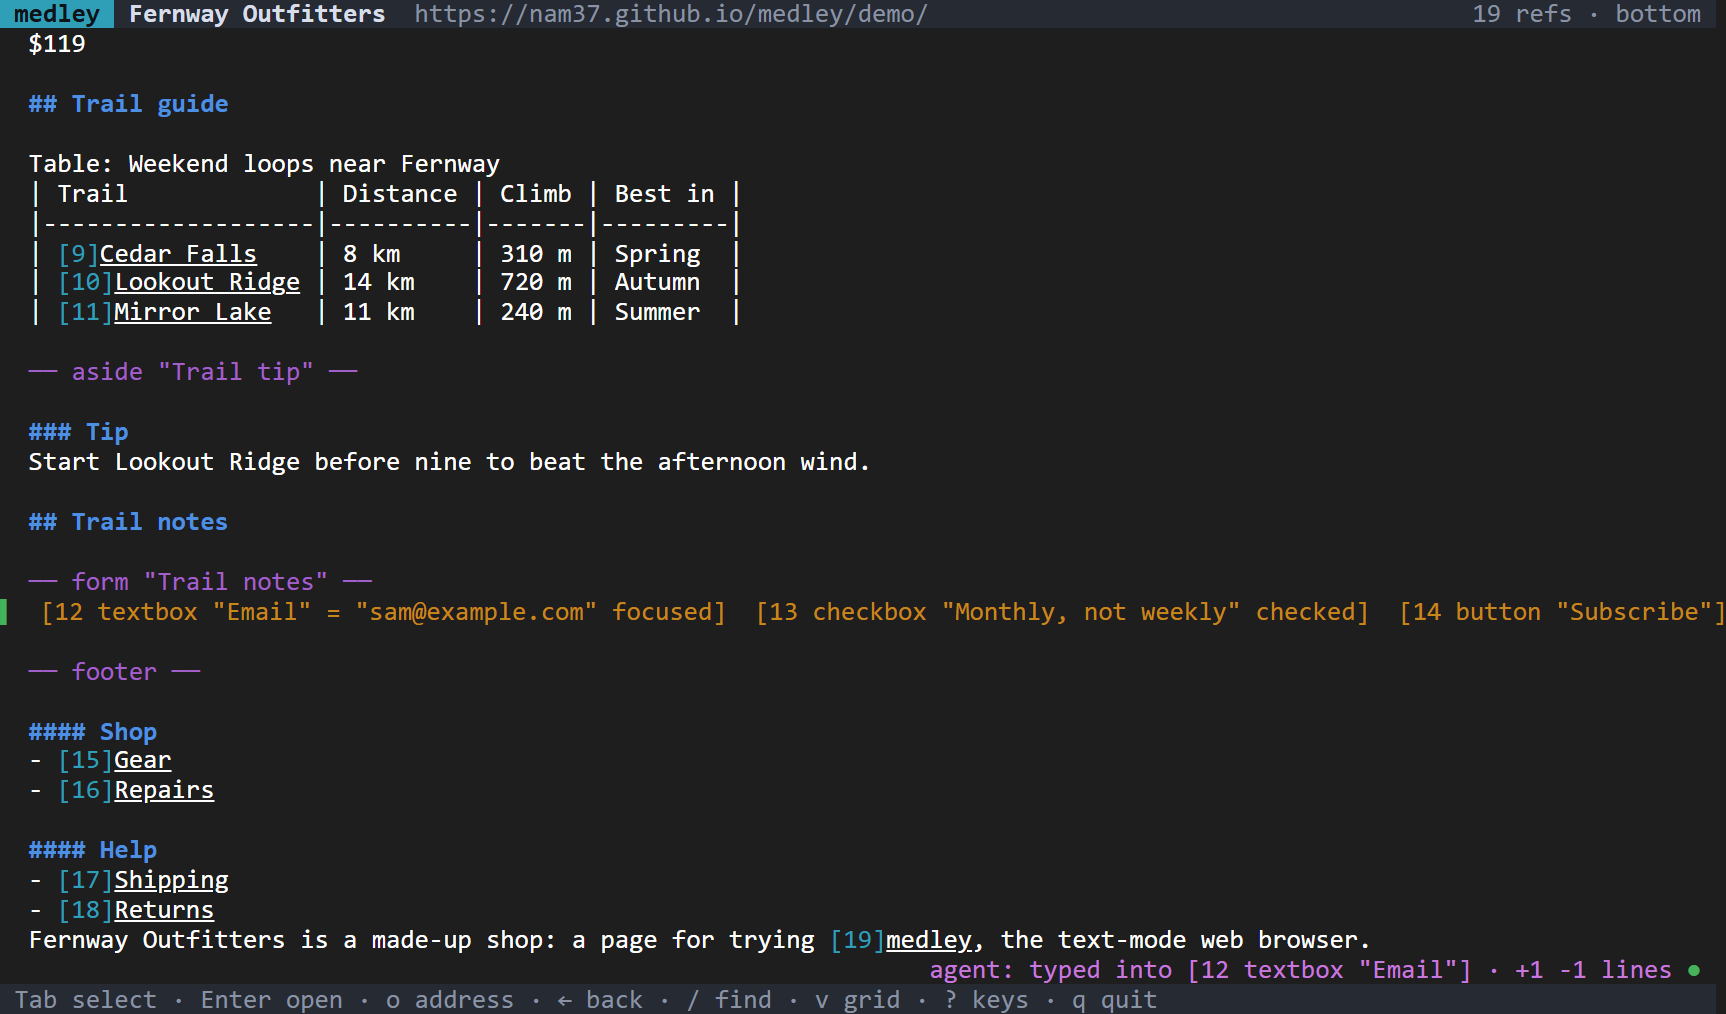
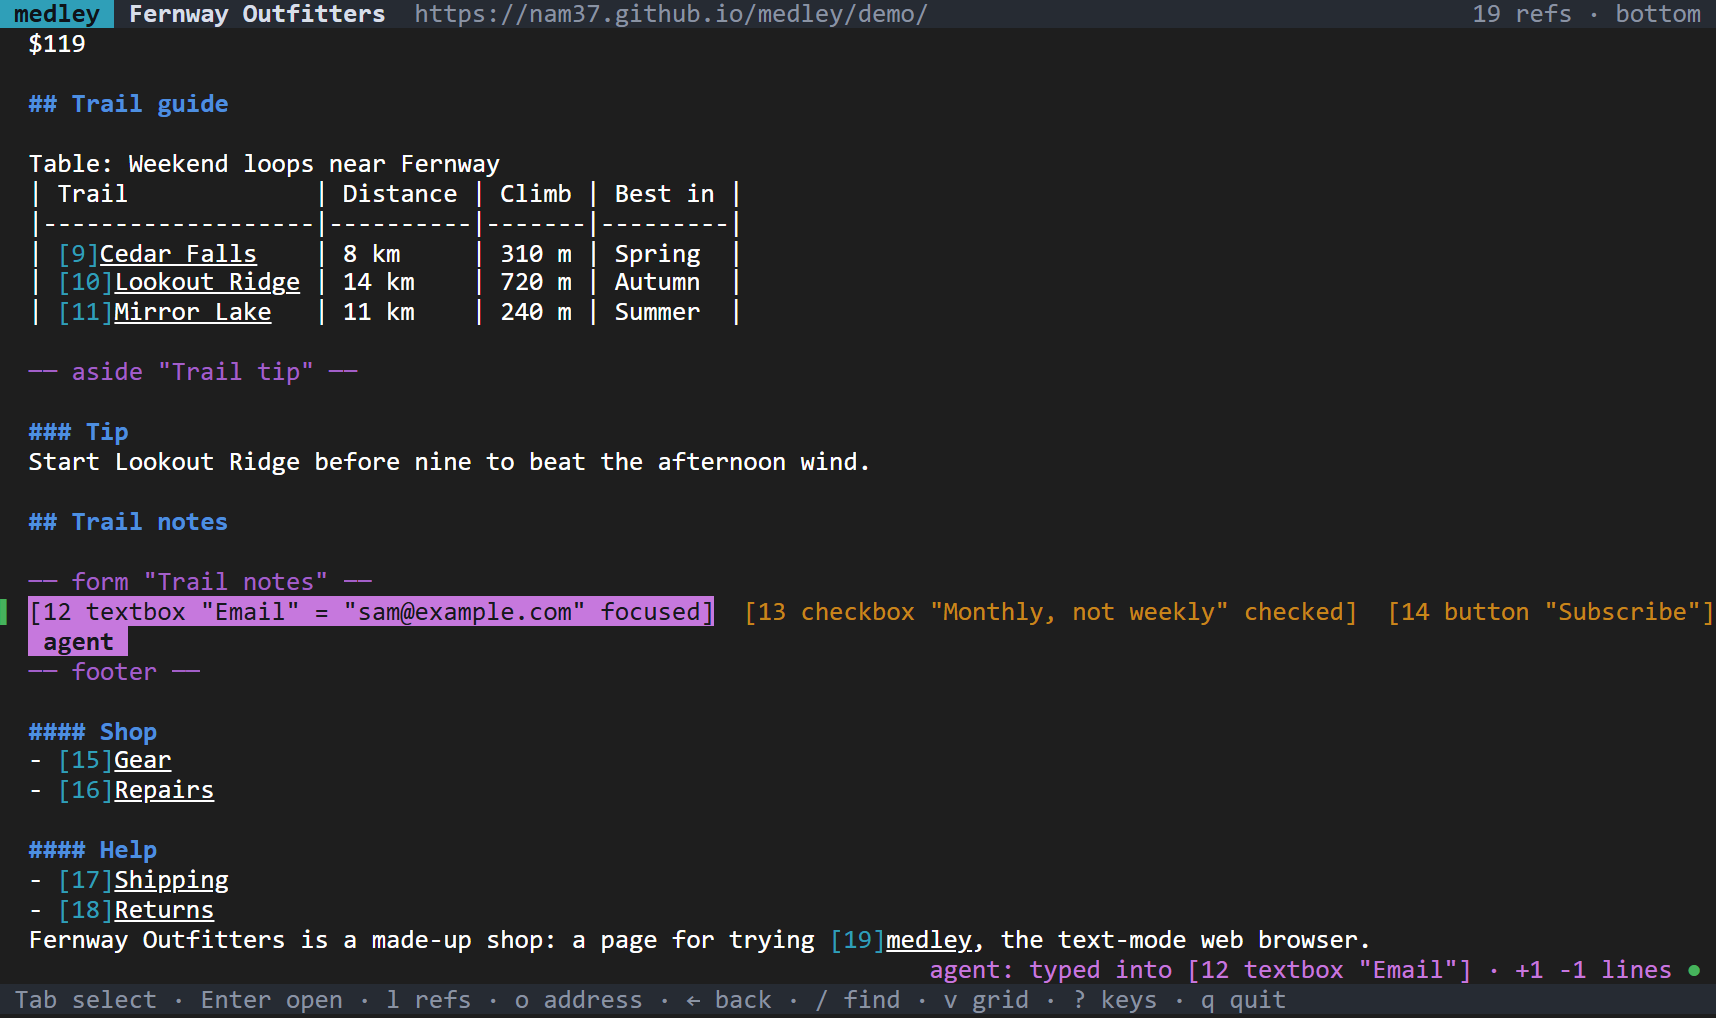
Run medley as bun src/medley.ts; the site's pictures made again
- src/cli.ts is now src/medley.ts, so the command reads as what it runs:
  bun src/medley.ts tui theverge.com. The README, the website, package.json
  and the tests say so.
- The website's terminal pictures are made again from today's terminal UI:
  the agent's cursor and its tag on what it types into and clicks, and the
  refs list in the key hints. scripts/site-shots.ts draws them itself now
  (--png <dir>), one cell per character in any font, so every picture is
  the same size.

diff --git a/docs/index.html b/docs/index.html
@@ -210,24 +210,24 @@
         <p class="prose">A background session owns the browser. The terminal UI, the command line and every MCP connection are clients of that one session, so you see what the agent does as it happens, with its cursor on what it's working on. Press <kbd>&gt;</kbd> to tell it something. When it needs you, for a sign-in, a choice, or a yes before it buys anything, it asks and waits for your answer, and a <code>confirm()</code> on the page waits for you too.</p>
         <div class="steps">
           <div class="step">
-            <div class="shot"><img src="assets/tui-agent-typed.png" alt="medley's terminal UI on the demo page's form; the status line says, in purple, agent: typed into [12 textbox Email]." width="1726" height="1014" loading="lazy"></div>
+            <div class="shot"><img src="assets/tui-agent-typed.png" alt="medley's terminal UI on the demo page's form; the status line says, in purple, agent: typed into [12 textbox Email]." width="1716" height="1018" loading="lazy"></div>
             <h3>The agent fills the form</h3>
             <p><span class="who agent">agent</span> <code>type 12 sam@example.com</code>. Your terminal UI follows along and marks the line that changed.</p>
           </div>
           <div class="step">
-            <div class="shot"><img src="assets/tui-confirm.png" alt="The status line reads: the page asks (confirm): Send trail notes to sam@example.com? with the hint y accept, n dismiss." width="1726" height="1014" loading="lazy"></div>
+            <div class="shot"><img src="assets/tui-confirm.png" alt="The status line reads: the page asks (confirm): Send trail notes to sam@example.com? with the hint y accept, n dismiss." width="1716" height="1018" loading="lazy"></div>
             <h3>The page asks to confirm</h3>
             <p><span class="who agent">agent</span> <code>click 14</code> opens a <code>confirm()</code>. The page is blocked until someone answers it.</p>
           </div>
           <div class="step">
-            <div class="shot"><img src="assets/tui-accepted.png" alt="After pressing y: accepted the confirm, and the page now shows Thanks! Notes will go to sam@example.com." width="1726" height="1014" loading="lazy"></div>
+            <div class="shot"><img src="assets/tui-accepted.png" alt="After pressing y: accepted the confirm, and the page now shows Thanks! Notes will go to sam@example.com." width="1716" height="1018" loading="lazy"></div>
             <h3>You answer it</h3>
             <p><span class="who you">you</span> press <kbd>y</kbd> in the terminal UI (or run <code>dialog accept</code>), and the page carries on.</p>
           </div>
         </div>
         <div class="code" style="margin-top: 28px">
-<pre class="medley" aria-label="Add medley to Claude Code as an MCP server"><span class="prompt">$ </span>claude mcp add medley -- bun /path/to/medley/src/cli.ts mcp</pre>
-          <button class="copy" type="button" data-copy="claude mcp add medley -- bun /path/to/medley/src/cli.ts mcp">copy</button>
+<pre class="medley" aria-label="Add medley to Claude Code as an MCP server"><span class="prompt">$ </span>claude mcp add medley -- bun /path/to/medley/src/medley.ts mcp</pre>
+          <button class="copy" type="button" data-copy="claude mcp add medley -- bun /path/to/medley/src/medley.ts mcp">copy</button>
         </div>
         <p class="note">The MCP tools (browser_goto, browser_click, browser_type, …) talk to the same session as the command line and the terminal UI.</p>
       </div>
@@ -337,9 +337,9 @@ Fernway Outfitters is a made-up shop: a page for trying <span class="ref">[19]</
         <p class="prose">A full-screen terminal UI for people: Tab through refs, Enter to open, <kbd>/</kbd> to find, <kbd>[</kbd> <kbd>]</kbd> for tabs. Press <kbd>v</kbd> to cycle how the page is drawn. The text, the refs and the keys stay the same in every mode.</p>
         <div class="term">
           <div class="screen" id="screen">
-            <img class="on" data-mode="none" src="assets/tui-none.png" alt="No grid: the page as medley's plain text, with colored refs." width="1726" height="1014">
-            <img data-mode="partial" src="assets/tui-partial.png" alt="Partial grid: the three product cards side by side in columns, and the trail table beside its tip." width="1726" height="1014" loading="lazy">
-            <img data-mode="advanced" src="assets/tui-advanced.png" alt="Advanced grid: the page as laid out, with its green top bar and the mountain picture drawn in half-block characters." width="1726" height="1014" loading="lazy">
+            <img class="on" data-mode="none" src="assets/tui-none.png" alt="No grid: the page as medley's plain text, with colored refs." width="1716" height="1018">
+            <img data-mode="partial" src="assets/tui-partial.png" alt="Partial grid: the three product cards side by side in columns, and the trail table beside its tip." width="1716" height="1018" loading="lazy">
+            <img data-mode="advanced" src="assets/tui-advanced.png" alt="Advanced grid: the page as laid out, with its green top bar and the mountain picture drawn in half-block characters." width="1716" height="1018" loading="lazy">
           </div>
         </div>
         <div class="modes" role="group" aria-label="Grid mode">
@@ -380,10 +380,10 @@ Fernway Outfitters is a made-up shop: a page for trying <span class="ref">[19]</
 <pre class="medley" aria-label="Install commands"><span class="prompt">$ </span>git clone https://github.com/nam37/medley.git
 <span class="prompt">$ </span>cd medley
 <span class="prompt">$ </span>bun install
-<span class="prompt">$ </span>bun src/cli.ts tui nam37.github.io/medley/demo/</pre>
-          <button class="copy" type="button" data-copy="git clone https://github.com/nam37/medley.git&#10;cd medley&#10;bun install&#10;bun src/cli.ts tui nam37.github.io/medley/demo/">copy</button>
+<span class="prompt">$ </span>bun src/medley.ts tui nam37.github.io/medley/demo/</pre>
+          <button class="copy" type="button" data-copy="git clone https://github.com/nam37/medley.git&#10;cd medley&#10;bun install&#10;bun src/medley.ts tui nam37.github.io/medley/demo/">copy</button>
         </div>
-        <p class="prose" style="margin-top: 22px">Then <code>bun src/cli.ts goto &lt;url&gt;</code>, <code>snapshot</code>, <code>click &lt;ref&gt;</code> and friends from any shell, or <code>bun src/cli.ts mcp</code> for agents. The <a href="https://github.com/nam37/medley#readme">README</a> lists every command, key and option, and what doesn't work yet.</p>
+        <p class="prose" style="margin-top: 22px">Then <code>bun src/medley.ts goto &lt;url&gt;</code>, <code>snapshot</code>, <code>click &lt;ref&gt;</code> and friends from any shell, or <code>bun src/medley.ts mcp</code> for agents. The <a href="https://github.com/nam37/medley#readme">README</a> lists every command, key and option, and what doesn't work yet.</p>
       </div>
     </section>
   </main>

diff --git a/scripts/site-shots.ts b/scripts/site-shots.ts
@@ -2,16 +2,21 @@
 // saves frames along the way as HTML fragments (colored terminal cells), for
 // the website and its video.
 //
-//   bun scripts/site-shots.ts <out-dir> [--width 120] [--rows 34] [--as <url>]
+//   bun scripts/site-shots.ts <out-dir> [--width 120] [--rows 34] [--as <url>] [--png <dir>]
 //
 // Writes <name>.html for each frame (the inside of a <pre>) and all.html,
 // which shows them all. --as shows the page's address as <url> in the top
 // bar, such as where the demo is published, instead of its local file.
+// --png also draws each frame as tui-<name>.png in <dir>, at twice its size
+// in Consolas: the website's pictures, with
+//
+//   bun scripts/site-shots.ts <out-dir> --as https://nam37.github.io/medley/demo/ --png docs/assets
 
 import { createTestRenderer } from '@opentui/core/testing';
-import { mkdirSync, readFileSync, writeFileSync } from 'node:fs';
-import { join } from 'node:path';
+import { mkdirSync, readFileSync, rmSync, writeFileSync } from 'node:fs';
+import { join, resolve } from 'node:path';
 import { pathToFileURL } from 'node:url';
+import { Browser } from '../src/browser.ts';
 import { send } from '../src/client.ts';
 import { App } from '../src/tui/app.ts';
 import { sessionBackend } from '../src/tui/main.ts';
@@ -25,9 +30,10 @@ const option = (name: string, fallback: string) => {
 const width = Number(option('--width', '120'));
 const rows = Number(option('--rows', '34'));
 const shownUrl = option('--as', '');
+const pngDir = option('--png', '');
 const [out] = args;
 if (!out) {
-  console.error('usage: bun scripts/site-shots.ts <out-dir> [--width 120] [--rows 34] [--as <url>]');
+  console.error('usage: bun scripts/site-shots.ts <out-dir> [--width 120] [--rows 34] [--as <url>] [--png <dir>]');
   process.exit(2);
 }
 mkdirSync(out, { recursive: true });
@@ -114,4 +120,32 @@ writeFileSync(
 <style>body{margin:24px;background:#111;color:#ddd;font:14px system-ui}pre{margin:6px 0 28px;background:#1e1e1e;color:#ddd;font:13px/1.15 Consolas,Menlo,monospace;display:inline-block}${FRAME_CSS}</style>
 ${saved.map((name) => `<div>${name}</div><pre>${readFileSync(join(out, `${name}.html`), 'utf8')}</pre>`).join('\n')}`,
 );
+
+// Each frame as a PNG at twice its size, cropped to the terminal.
+if (pngDir) {
+  mkdirSync(pngDir, { recursive: true });
+  const browser = await Browser.launch({ width: 1200, height: 800 });
+  try {
+    const page = await browser.newPage();
+    for (const name of saved) {
+      const file = resolve(out, `_${name}.png.html`);
+      const size = `width:${width}ch;height:${(rows * 1.15).toFixed(2)}em;overflow:hidden`; // the terminal's columns and rows
+      const css = `html,body{margin:0;background:#1e1e1e}pre{margin:0;display:inline-block;${size};background:#1e1e1e;color:#ddd;font:13px/1.15 Consolas,monospace}${FRAME_CSS}`;
+      // Every character one cell wide, as in a terminal, whichever font draws it (Consolas has no ●),
+      // so every picture comes out the same size.
+      const cells = readFileSync(join(out, `${name}.html`), 'utf8').replace(/(?:<i>)?([^\x00-\x7f])(?:<\/i>)?/g, '<i>$1</i>');
+      writeFileSync(file, `<!doctype html><meta charset="utf-8"><style>${css}</style><pre>${cells}</pre>`);
+      await page.goto(pathToFileURL(file).href);
+      const box = await page.evaluate<{ w: number; h: number }>(`(() => { const r = document.querySelector('pre').getBoundingClientRect(); return { w: r.width, h: r.height }; })()`);
+      box.w = Math.ceil(box.w);
+      box.h = Math.ceil(box.h);
+      const shot = await page.send('Page.captureScreenshot', { format: 'png', captureBeyondViewport: true, clip: { x: 0, y: 0, width: box.w, height: box.h, scale: 2 } });
+      writeFileSync(join(pngDir, `tui-${name}.png`), Buffer.from(shot.data, 'base64'));
+      rmSync(file);
+      console.log(`tui-${name}.png ${Math.round(box.w * 2)}×${Math.round(box.h * 2)}`);
+    }
+  } finally {
+    await browser.close();
+  }
+}
 process.exit(0);

diff --git a/test/idle.ts b/test/idle.ts
@@ -12,7 +12,7 @@ import { pathToFileURL } from 'node:url';
 import { logFile, readSessionInfo } from '../src/client.ts';
 
 const SESSION = 'idle-test';
-const cli = join(import.meta.dir, '..', 'src', 'cli.ts');
+const cli = join(import.meta.dir, '..', 'src', 'medley.ts');
 const page = pathToFileURL(join(import.meta.dir, 'app.html')).href;
 const env = { ...process.env, MEDLEY_IDLE_MINUTES: '0.05' }; // 3 s
 const medley = (...args: string[]) => spawnSync(process.execPath, [cli, '--session', SESSION, '--no-color', ...args], { env, encoding: 'utf8' });

diff --git a/test/agent.ts b/test/agent.ts
@@ -10,7 +10,7 @@ import { join } from 'node:path';
 import { pathToFileURL } from 'node:url';
 
 const SESSION = 'agent-test';
-const cli = join(import.meta.dir, '..', 'src', 'cli.ts');
+const cli = join(import.meta.dir, '..', 'src', 'medley.ts');
 const page = (name: string) => pathToFileURL(join(import.meta.dir, name)).href;
 const medley = (...args: string[]) => {
   const r = spawnSync(process.execPath, [cli, '--session', SESSION, '--no-color', ...args], { encoding: 'utf8' });

diff --git a/test/dev.ts b/test/dev.ts
@@ -13,7 +13,7 @@ import { pathToFileURL } from 'node:url';
 
 const SESSION = 'dev-test';
 const OTHER = 'dev-test-replay';
-const cli = join(import.meta.dir, '..', 'src', 'cli.ts');
+const cli = join(import.meta.dir, '..', 'src', 'medley.ts');
 const page = (path: string) => pathToFileURL(path).href;
 // Without a PASSWORD of its own, so a script that reads one gets only the test's.
 const { PASSWORD: _, ...ENV } = process.env;

diff --git a/README.md b/README.md
@@ -43,13 +43,13 @@ over the DevTools protocol; the only package it depends on is
 git clone https://github.com/nam37/medley.git
 cd medley
 bun install
-bun src/cli.ts tui en.wikipedia.org
+bun src/medley.ts tui en.wikipedia.org
 ```
 
-The examples below write `medley` for `bun src/cli.ts`. To type it that way,
-add an alias, such as `alias medley="bun /path/to/medley/src/cli.ts"` in bash
-or zsh, or `function medley { bun C:\path\to\medley\src\cli.ts @args }` in
-PowerShell.
+The examples below write `medley` for `bun src/medley.ts`. To type it that way,
+add an alias, such as `alias medley="bun /path/to/medley/src/medley.ts"` in bash
+or zsh, or `function medley { bun C:\path\to\medley\src\medley.ts @args }` in
+PowerShell (in the file `$PROFILE` names, so every new window has it).
 
 A command takes as long as the page does to load and settle, plus Bun's own
 start (a few hundred milliseconds). The first command also starts the browser,
@@ -244,7 +244,7 @@ when it attaches.
 ### Use it from an agent
 
 ```
-claude mcp add medley -- bun /path/to/medley/src/cli.ts mcp
+claude mcp add medley -- bun /path/to/medley/src/medley.ts mcp
 ```
 
 The MCP tools (`browser_goto`, `browser_click`, `browser_type`, …) talk to the
@@ -548,9 +548,10 @@ looked, when the old number means something else), that a notice over the
 page stops clicks into frames under it (from another site and from this one),
 that a frame from this site is read in like one from another, and that a
 table's hidden rows and cells don't show.
-`bun scripts/site-shots.ts <dir> [--as <url>]` drives the terminal UI through
-the demo shop in `docs/demo/` and saves its frames as HTML; the website's
-terminal pictures come from it.
+`bun scripts/site-shots.ts <dir> [--as <url>] [--png <dir>]` drives the
+terminal UI through the demo shop in `docs/demo/` and saves its frames as
+HTML, and with `--png` as pictures too. The website's are made with
+`bun scripts/site-shots.ts <dir> --as https://nam37.github.io/medley/demo/ --png docs/assets`.
 `bun run image-compare [url] [--pictures 6]` compares ways of drawing pictures
 in the terminal it runs in, side by side: the half blocks advanced grid drew
 at first, OpenTUI's quadrant blocks, Sixel and Kitty graphics. It shows a test card
